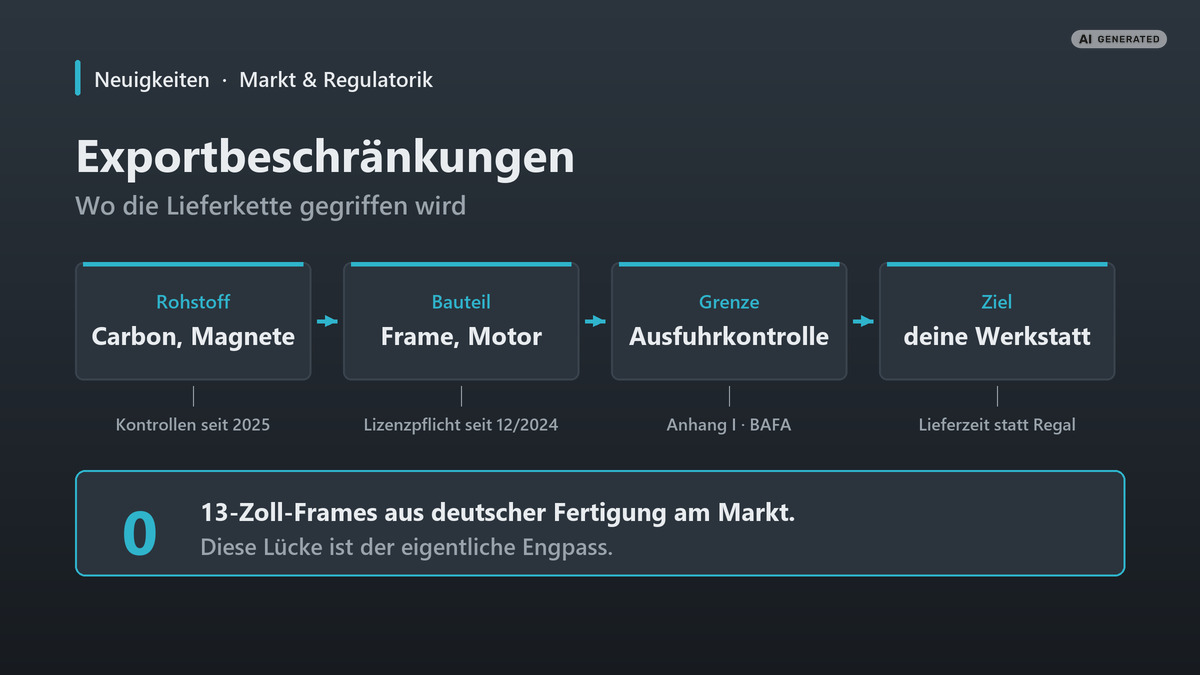
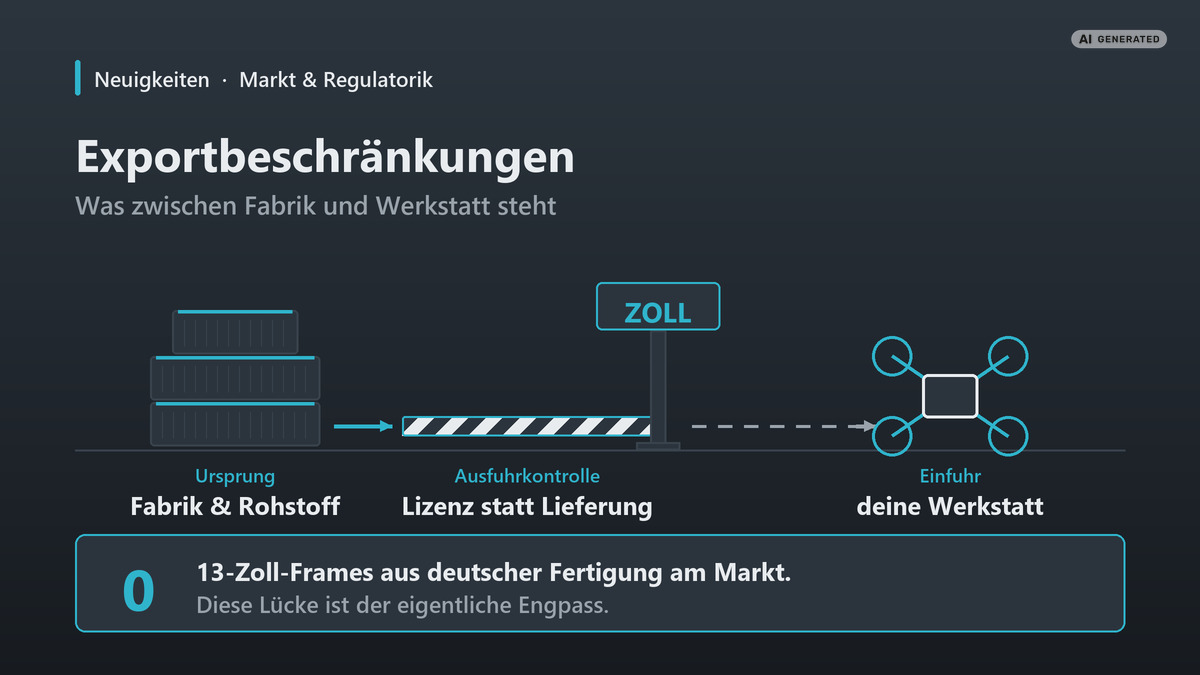
Exportbeschraenkungen: neues Hero-Schaubild (Zoll-Motiv)
Bild neu gerendert, Alt-Text und Bildunterschrift auf Container/Zollschranke/
Werkstatt umgestellt, Alt-Text der Startseiten-Kachel mitgezogen,
Aenderungshistorie ergaenzt (dateModified 2026-08-15).

diff --git a/artikel-exportbeschraenkungen.html b/artikel-exportbeschraenkungen.html
@@ -38,7 +38,7 @@
   "description": "Chinas Exportkontrollen, die EU-Güterliste und ein Markt, auf dem es keinen einzigen 13-Zoll-Frame aus deutscher Fertigung gibt. Warum uns die Regulatorik ausgerechnet beim Rahmen trifft.",
   "image": "https://dracolabsgermany.com/assets/ratgeber/exportbeschraenkungen-hero.jpg",
   "datePublished": "2026-08-14",
-  "dateModified": "2026-08-14",
+  "dateModified": "2026-08-15",
   "author": { "@type": "Organization", "name": "Draco Labs Germany" },
   "publisher": {
     "@type": "Organization",
@@ -92,10 +92,10 @@
     </div>
 
     <figure class="artikel-bild">
-      <img src="assets/ratgeber/exportbeschraenkungen-hero.jpg" alt="Schaubild: die Lieferkette als Kette aus Rohstoff, Bauteil, Ausfuhrkontrolle und Werkstatt,
+      <img src="assets/ratgeber/exportbeschraenkungen-hero.jpg" alt="Schaubild: Containerstapel, dahinter eine geschlossene Zollschranke, dahinter ein Quadrocopter als Werkstatt,
         darunter der Hinweis, dass es keinen 13-Zoll-Frame aus deutscher Fertigung am Markt gibt"
         width="1200" height="675" loading="lazy">
-      <figcaption>Vier Stationen, vier Stellen, an denen zugegriffen werden kann.  Die Zahl unten zeigt, wo in dieser Kette die Lücke sitzt.</figcaption>
+      <figcaption>Zwischen Fabrik und Werkstatt steht die Ausfuhrkontrolle.  Die Zahl unten zeigt, wo in diesem Weg die Lücke sitzt.</figcaption>
     </figure>
 
     <h2>Warum wir diesen Artikel schreiben</h2>
@@ -222,6 +222,7 @@
 <!-- historie:start -->
     <h2>Änderungshistorie</h2>
     <ul class="muted historie">
+      <li><strong>15.08.2026</strong> · Hero-Schaubild neu gezeichnet: Container, Zollschranke und Werkstatt statt abstrakter Stationskette</li>
       <li><strong>14.08.2026</strong> · Erstveröffentlichung in der Rubrik Neuigkeiten: Startseiten-Kachel, sitemap, Cross-Link zum Motoren-Ratgeber</li>
     </ul>
 <!-- historie:ende -->

diff --git a/index.html b/index.html
@@ -158,8 +158,8 @@
     <!-- neuigkeiten:start -->
     <div class="rg-karussell">
       <a class="rg-kachel" href="artikel-exportbeschraenkungen.html">
-        <img src="assets/ratgeber/exportbeschraenkungen-hero.jpg" alt="Schaubild: die Lieferkette als Kette aus Rohstoff, Bauteil, Ausfuhrkontrolle und
-             Werkstatt"
+        <img src="assets/ratgeber/exportbeschraenkungen-hero.jpg" alt="Schaubild: Containerstapel, geschlossene Zollschranke und dahinter ein Quadrocopter
+             als Werkstatt"
              width="1200" height="675" loading="lazy">
         <div class="rg-text">
           <div class="rg-titel">Exportbeschränkungen</div>

diff --git a/tools/ratgeber_karussell.py b/tools/ratgeber_karussell.py
@@ -89,8 +89,8 @@ NEUIGKEITEN = [
                "einzigen 13-Zoll-Frame aus deutscher Fertigung.  Was davon bei "
                "dir im Warenkorb und bei uns in der Werkstatt ankommt.",
      "bild": "exportbeschraenkungen-hero.jpg",
-     "alt": "Schaubild: die Lieferkette als Kette aus Rohstoff, Bauteil, "
-            "Ausfuhrkontrolle und Werkstatt"},
+     "alt": "Schaubild: Containerstapel, geschlossene Zollschranke und "
+            "dahinter ein Quadrocopter als Werkstatt"},
     {"datei": "artikel-darpa-lift-challenge.html",
      "titel": "DARPA Lift Challenge",
      "teaser": "Eine Woche Dayton: 76 Teams, nur 9 gewertete Läufe und ein "
